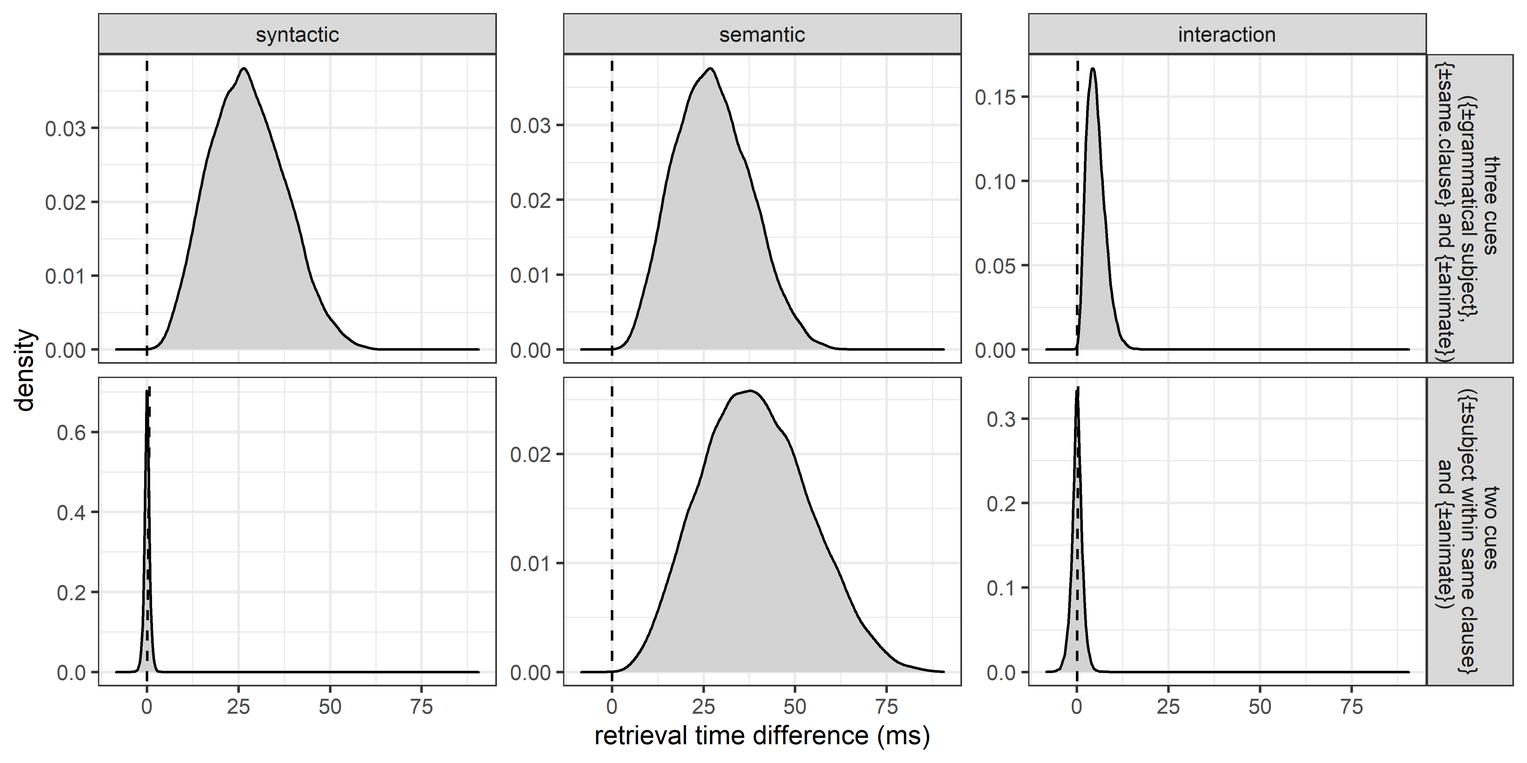
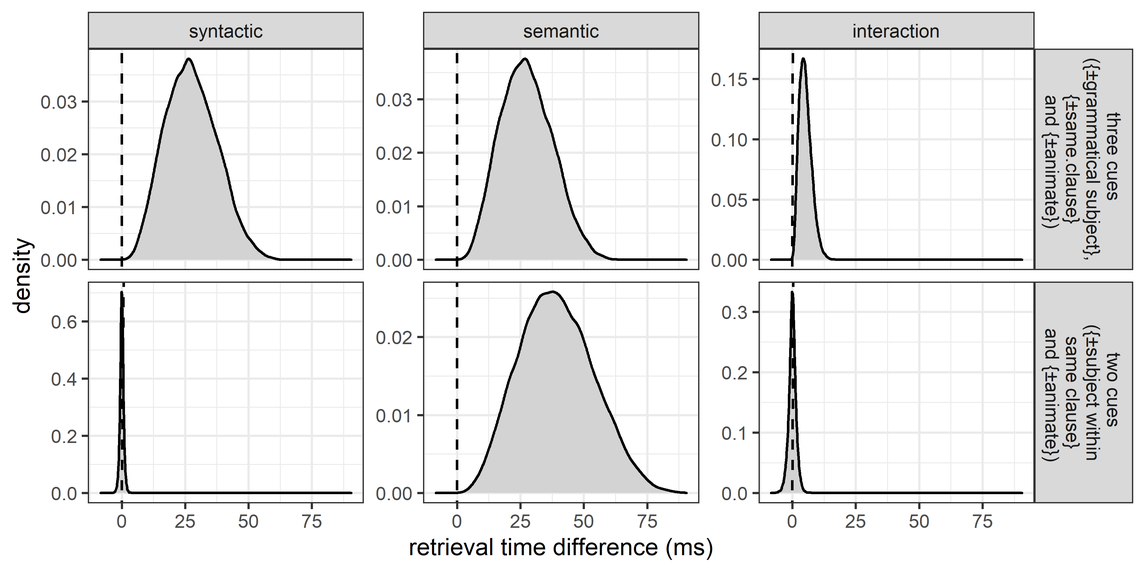
updated prior predictive modeling

diff --git a/paper/main.tex b/paper/main.tex
@@ -149,13 +149,13 @@ Semantic interference is manipulated via the animacy of the distractor. During t
 
 \paragraph{Regions of interest in the design}
 
-Although our principal focus was on the processing of the verb (\textit{trank}, `drank'), and the immediately following spill-over region, the pre-critical region was also of interest because previous work using the present design \parencite{vandyke07,mertzen} has consistently found effects in this region (we return to this point in the discussion sections). A further issue with German embedded clauses \parencite[also see][]{mertzen} was that, without an appropriate intervening phrase, the clause embedding would lead to two verbs appearing one after another (\textit{erzählt hatte, trank}, literally `told, drank'). This is because in German, the verb is clause-final in embedded clauses. Such verb sequences are inherently difficult to process \parencite{VSLK11,bach1986crossed}. 
+Our principal focus was on the processing of the verb (\textit{trank}, `drank'). The reading times of the immediately following spill-over region and of the pre-critical region were also of interest. Previous work using the present design \parencite{vandyke07,mertzen} has consistently found effects in the pre-critical region (we return to this point in the discussion sections). A further issue with German embedded clauses \parencite[also see][]{mertzen} was that, without an appropriate intervening phrase, the clause embedding would lead to two verbs appearing one after another (\textit{erzählt hatte, trank}, literally `told, drank'). This is because in German, the verb is clause-final in embedded clauses. Such verb sequences are inherently difficult to process \parencite{VSLK11,bach1986crossed}. 
 
 For these reasons, we added two adverbs before the critical verb. Including these intervening regions had a further advantage: 
 It is well-known \parencite[e.g., ][]{rayner2000effect} that the last word in a clause-final position causes a slowdown in reading; such a slowdown has the potential to spill over to the subsequent regions, possibly affecting the estimated effects at the critical region. The spill-over of longer reading times can be problematic because the standard deviation increases as well \parencite{wagenmakers2007linear}; such an increase in standard deviation would drastically lower statistical power. 
 Inserting two adverbs before the critical verb thus served to attenuate spill-over from the clause-final word in the embedded clause preceding the critical region. This way, the critical region should be less affected by the clause-boundary slowdown. This design also has the advantage that any potential effects seen at the pre-critical region (the adverb immediately preceding the verb) are less likely to be due to spill-over from the preceding region. 
 
-Thus, our focus in the present study is on the processing difficulty observed at the pre-critical, critical (verb), and post-critical regions.
+Thus, our focus in the present study is on the processing difficulty observed at the critical verb and the surrounding regions.
 
 
 \subsubsection{Plausibility norming}
@@ -446,7 +446,7 @@ At the pre-critical region, there was clear evidence for semantic interference. 
 Indeed, previous work using the same design as in the present paper has also found semantic interference effects at the pre-critical region: both \textcite{vandyke07} and \textcite{mertzen} found such effects. \citeauthor{mertzen}'s (\citeyear{mertzen}) Figures 5 and 6 indicated reading time differences in earlier regions, especially for their German data (see their Figure 6). \textcite{vandyke07} did not report reading times for the whole sentences / distractors;  \citeauthor{vandyke07} attributed the effects observed at the pre-critical region to plausibility differences between conditions, but as \textcite{mertzen} also points out, encoding interference could be an explanation even in that study. Given these earlier findings, our results are consistent with the encoding interference explanation.
 
 \textcite{mertzen} observed both syntactic and semantic interference effects in the pre-critical region. 
-They discuss several alternative explanations for their observed effects. In addition to encoding interference, \textcite{mertzen} propose three other alternative explanations for their data: parafoveal-on-foveal effects, sentence structure confounds across conditions, and predictive processing effects. Our results cannot be explained by the parafoveal-on-foveal explanation, because there is no parafoveal preview in self-paced reading. The observed difference between the high and low semantic interference conditions is independent of the syntactic manipulation. Therefore, the sentence structure confound is also not a good explanation for the effect in our study. Regarding the predictive-processing explanation, \citet{mertzen} argued that the pre-critical adverb must attach to the upcoming verbal phrase; this leads to an anticipatory creation of a verb phrase chunk in memory, which triggers a retrieval of the subject already at the pre-critical region. However, in our study, the effect started at the distractor and became smaller as the two pre-critical adverbs were read (see Figure \ref{fig:whole_sentence} A and B). The predictive-processing explanation would incorrectly predict that the effect begins at the first adverb, which is the first word of the verbal phrase. Consequently, the prediction explanation is also ruled out in our data, rendering encoding interference the most likely explanation of the effects found prior to the critical verb in our data. Crucially this line of reasoning should not be limited to the explanation of the pre-critical effects, but should be extended to the effects in the critical region as well. The reading times for high vs.\ low semantic interference conditions started to differ at the distractor and differed throughout the rest of the sentence. It is not possible to pinpoint whether the effect in the critical region is due to a retrieval initiated at this region, or still due to encoding and maintaining the distractor in memory \citep{ness2017}, or a combination of encoding and retrieval interference. Due to this unclear status of the effects at the critical verb, we refrain from interpreting the interaction which was observed in this region.
+They discuss several alternative explanations for their observed effects. In addition to encoding interference, \textcite{mertzen} propose three other alternative explanations for their data: parafoveal-on-foveal effects, sentence structure confounds across conditions, and predictive processing effects. Our results cannot be explained by the parafoveal-on-foveal explanation, because there is no parafoveal preview in self-paced reading. The observed difference between the high and low semantic interference conditions is independent of the syntactic manipulation. Therefore, the sentence structure confound is also not a good explanation for the effect in our study. Regarding the predictive-processing explanation, \citet{mertzen} argued that the pre-critical adverb must attach to the upcoming verbal phrase; this leads to an anticipatory creation of a verb phrase chunk in memory, which triggers a retrieval of the subject already at the pre-critical region. However, in our study, the effect started at the distractor and became smaller as the two pre-critical adverbs were read (see Figure \ref{fig:whole_sentence} A and B). The predictive-processing explanation would incorrectly predict that the effect begins at the first adverb, which is the first word of the verbal phrase. Consequently, the prediction explanation is also ruled out in our data, rendering encoding interference the most likely explanation of the effects found prior to the critical verb in our data. Crucially this line of reasoning should not be limited to the explanation of the pre-critical effects, but should be extended to the effects in the critical region as well. The reading times for high vs.\ low semantic interference conditions started to differ at the distractor and differed throughout the rest of the sentence. It is not possible to pinpoint whether the effect in the critical region is due to a retrieval initiated at this region, or still due to encoding and maintaining the distractor in memory \citep{ness2017}, or a combination of encoding and retrieval interference. Because of the unclear status of the effects at the critical verb, we refrain from interpreting the interaction which was only observed in this region.
 
 \subsubsection{Comparison with previous findings}
 The results of the present study stand in contrast to previous findings \citep{vandyke07, mertzen}. The present study is the only one to find semantic and no syntactic interference effect. The difference in observed effects could be explained by differences in statistical power or by methodological differences. The present study has higher statistical power than the previous studies. \citet{vandyke07} had 35 - 40 participants and 36 - 48 items in each of her three experiments, respectively. \textcite{mertzen} tested 61 English speakers and 121 German speakers with 40 items each. In contrast, we tested 774 participants with at least 60 items each (a subset of 160 participants read all 120 items). Therefore, the present study is the study with the highest power to date using this 2 $\times$ 2 interference design. Consequently, the estimates from the present study are the most precise ones so far for this design. The smaller effect size in the present study is a consequence of higher power, and the magnitude of the effects observed is comparable to that of other large-scale reading studies \citep{nicenboim} and meta-analyses on interference \citep{jaeger_etal_2017}.
@@ -493,7 +493,7 @@ The statistical analyses of the comprehension accuracy in the EEG experiment wer
 We used Bayesian linear mixed models to analyze the single trial EEG data in response to the critical verb. We averaged the activity of 12 centro-parietal electrodes (Cz, C3/4, CPz, CP1/2, CP5/6, Pz, P3/4, POz) in the standard N400 time window (300 to 500 ms post critical word onset) for all analyses. The models included sum-contrast coded fixed effects for syntactic interference (high +0.5, low -0.5), semantic interference (high +0.5, low -0.5) and their interaction. In addition to the fixed effects of interest, all models included the baseline EEG activity from 200 ms prior to critical word onset until critical word onset as a continuous predictor. This functioned as a regression-based instead of traditional baseline correction \citep{alday2019}. Varying intercepts for participants and items as well as by-participant random slopes for semantic interference were included. Correlations between varying intercepts and slopes were not included. We used relatively informative priors for all parameters of the models (see Table \ref{tab:eeg_priors}). 
 
 \begin{table}[]
-    \caption{Relatively informative priors for the analysis of the event-related potentials \citep{nicenboim_stats}. Priors on the slope parameters were truncated to an upper bound of zero, i.e., only negative values. This corresponds to more negative brain responses to high vs.\ low interference conditions in line with the literature. The standard deviations of the slope priors were varied in order to conduct a Bayes factor sensitivity analysis. See the corresponding assumed a priori range of the difference between high vs.\ low interference.}
+    \caption{Relatively informative priors for the analysis of the event-related potentials \citep{nicenboim_stats}. Priors on the slope parameters were truncated to an upper bound of zero, i.e., only negative values. This corresponds to more negative brain responses to high vs.\ low interference conditions in line with the literature \citep{lee_garnsey, martinetal2014, schoknecht2022, vasishth_drenhaus_2011}. The standard deviations of the slope priors were varied in order to conduct a Bayes factor sensitivity analysis. See the corresponding assumed a priori range of the difference between high vs.\ low interference.}
     \label{tab:eeg_priors}
     \centering
     \begin{tabular}{lllr}
@@ -535,7 +535,7 @@ After exclusion of participants with accuracy below 70\,\%, the overall accuracy
     \end{tabular}
 \end{table}
 
-Table \ref{tab:eeg_acc_mod} presents the results of the generalized mixed model analyzing the comprehension accuracy in the critical trials. The log-odds estimates and 95\,\% credible intervals show reduced comprehension accuracy in high compared to low semantic interference conditions. Additionally, the results suggest an interaction, i.e., the difference between high and low semantic interference conditions was larger when syntactic interference was high vs.\ when it was low.
+Table \ref{tab:eeg_acc_mod} presents the results of the generalized mixed model analyzing the comprehension accuracy in the critical trials. The log-odds estimates and 95\,\% credible intervals show reduced comprehension accuracy in high compared to low semantic interference conditions. Additionally, the results suggest an interaction, i.e., the difference between high and low semantic interference conditions was larger when syntactic interference was high vs.\ when it was low. Because the accuracies are not of primary interest, we did not carry out Bayes factors analyses for these.
 
 \begin{table}[]
     \caption{Results in log-odds from a Bayesian generalized model analyzing the comprehension accuracy in critical trials of the EEG experiment.}
@@ -558,7 +558,7 @@ interaction& -0.17&  [-0.34, -0.01]\\
 \paragraph{Estimated effect sizes and their uncertainty}
 
 Figure \ref{fig:erp_all} shows the 
-grand average ERPs elicited by the critical verb for all conditions. Table \ref{tab:eeg_mod} shows the estimates from the linear mixed model with the truncated prior Normal$_-$(0, 0.5) which assumed more negative ERPs for high vs.\ low interference, with a difference possibly as large as -1\,$\mu V$. The 95\% credible intervals for the fixed effects are consistent with effects of syntactic interference, semantic interference and their interaction. The estimate of the semantic interference effect was the largest and its 95\% credible interval was the furthest from zero (mean: -0.31\,$\mu V$, 95\% CrI = [-0.49, -0.13]\,$\mu V$, for the posteriors see Figure \ref{fig:eeg_posteriors}). The estimate of syntactic interference and the interaction were both about half the size of the semantic effect (see Table \ref{tab:eeg_mod} and Figure \ref{fig:eeg_posteriors}).
+grand average ERPs elicited by the critical verb for all conditions. Table \ref{tab:eeg_mod} shows the estimates for the brain activity in the spatio-temporal N400 window from the linear mixed model with the truncated prior Normal$_-$(0, 0.5) which assumed more negative ERPs for high vs.\ low interference, with a difference possibly as large as -1\,$\mu V$. The 95\% credible intervals for the fixed effects are consistent with effects of syntactic interference, semantic interference and their interaction. The estimate of the semantic interference effect was the largest and its 95\% credible interval was the furthest from zero (mean: -0.31\,$\mu V$, 95\% CrI = [-0.49, -0.13]\,$\mu V$, for the posteriors see Figure \ref{fig:eeg_posteriors}). The estimate of syntactic interference and the interaction were both about half the size of the semantic effect (see Table \ref{tab:eeg_mod} and Figure \ref{fig:eeg_posteriors}).
 
 \begin{figure}[H]
     \caption{ERPs elicited by the critical verb (word onset at 0\,ms) at electrode Cz.}
@@ -644,23 +644,22 @@ Normal$_{-}$(0, 5): BF$_{10}$ = 0.14).  What this means is that, in our data, on
 
 Across all priors, the Bayes factors provided evidence \textit{against} the interaction of semantic and syntactic interference (BF$_{10}$ < 0.85).
 
-
-\begin{figure}
+\begin{figure}[H]
     \caption{Bayes factors for the effects of semantic interference, syntactic interference and their interaction in the time window 300 to 500 ms post critical verb onset at centro-parietal electrode sites.}
     \label{fig:eeg_bfs}
     \centering
-    \includegraphics[width=0.9\textwidth]{images/BF_plot_N103_cp_300_500.jpg}
+    \includegraphics[width=0.8\textwidth]{paper/images/BF_plot_N103_cp_300_500.jpg}
 \end{figure}
 
 \subsection{Discussion}
-We presented a relatively large-scale ERP experiment investigating syntactic and semantic interference during subject-verb dependency completion. To our knowledge, this is the first ERP experiment on this classic interference design, which has only been investigated using reading studies so far \parencite{mertzen,vandyke07}. 
+We presented a large-scale ERP experiment investigating syntactic and semantic interference during subject-verb dependency completion. To our knowledge, this is the first ERP experiment on this classic interference design, which has only been investigated using reading studies so far \parencite{mertzen,vandyke07}. 
 
 Comprehension accuracy was reduced for high vs.\ low semantic interference conditions. 
 Syntactic interference itself did not affect accuracy. There was a numerical suggestion of an interaction: the difference in accuracy between low and high semantic interference conditions was larger when syntactic interference was high vs.\ when it was low (17 vs.\ 8 \% difference). 
 
 The Bayes factors analyses found strong evidence for semantic interference in the N400 amplitude. Syntactic interference had much weaker evidence in the N400 amplitude; only anecdotal evidence was found under narrow priors, and there was clear evidence against syntactic interference under wider priors. The evidence against an interaction under all priors was unequivocal.
 
-Our finding that retrieval interference modulates the N400 amplitude supports the N400 as a marker of memory retrieval \citep{kutas&federmeier_2000, kutas_federmeier2011, brouwer2017_n4_p6, lau2008_n400}.
+Our finding that retrieval interference modulates the N400 amplitude supports the N400 as a marker of memory retrieval \citep{kutas&federmeier_2000, kutas_federmeier2011, brouwer2017_n4_p6, lau2008_n400}. The more complex memory retrieval under high semantic interference resulted in a more negative N400.
 
 Consistent with the self-paced reading study, there is clear evidence for semantic interference, and evidence against syntactic interference.  How do these observed patterns compare to the theoretical predictions of cue-based retrieval theory? We turn to this point next by discussing the quantiative predictions of the \textcite{Lewis2005} model.
 
@@ -669,14 +668,36 @@ Consistent with the self-paced reading study, there is clear evidence for semant
 \section{Quantitative predictions of the Lewis and Vasishth (2005) model for the present design}
 
 \textcite{mertzen} presented simulations that show approximately equally sized interference effects 
-for both the syntactic and semantic manipulations. Their model assumed that three cues were used at the verb:  \{$\pm$ grammatical subject\}, \{$\pm$ same clause\} and \{$\pm$ animacy\}. The upper part of Figure \ref{fig:model_predictions} reproduces the \textcite{mertzen}   simulations. These are prior predictive distributions of the effects of interest, by sampling from a prior distribution ($Beta(a=4,b=6)$) for the free scaling parameter F and then generating data from the model while holding all other parameters in the model at fixed values. The F parameter scales the activation to a retrieval time. The prior $Beta(a=4,b=6)$ was chosen in earlier work \parencite{jaeger_etal_2020}. 
+for both the syntactic and semantic manipulations. Their model assumed that three cues were used at the verb: \{$\pm$ grammatical subject\}, \{$\pm$ same clause\} and \{$\pm$ animacy\}. The upper parts of Figure \ref{fig:model_predictions} a and b reproduce the \textcite{mertzen} simulations. \ref{fig:model_predictions_rts} shows the prior predictive distributions of by-condition retrieval times that were generated by sampling from a prior distribution ($Beta(a=4,b=6)$) for the free scaling parameter F and then generating data from the model while holding all other parameters in the model at fixed values. The F parameter scales the activation to a retrieval time. The prior $Beta(a=4,b=6)$ was chosen in earlier work \parencite{jaeger_etal_2020}. Figure \ref{fig:model_predictions_effects} shows the effects of interest computed based on the condition means shown in \ref{fig:model_predictions_rts}.
 
-Although the semantic interference effect estimates from the SPR study fall within the predicted range from the model, the syntactic interference effect is quite divergent: as discussed earlier, the SPR data show evidence against syntactic interference, but the model predicts a syntactic interference effect of approximately the same magnitude as semantic interference. Given that the EEG data also speak against syntactic interference, it is plausible that, at least in this experimental design and language, syntactic interference plays no role. 
+\begin{figure}[htbp]
+    \centering
+    \caption{Prior predictions from the \textcite{Lewis2005} model as implemented in R by \textcite{engelmann_etal_2019}. 
+    The implemented models are available with the code and data provided with this paper.}
+    \label{fig:model_predictions}
+    \centering
+         \begin{subfigure}[t]{\textwidth}
+         \centering
+        \caption{Prior predicted by-condition retrieval time means. The upper panel shows the predictions using the three retrieval cues used in \textcite{mertzen}, and the lower panel shows the predictions using the two cues \{$\pm$ subject-in-same-clause\} and \{$\pm$ animate\}. Diamonds represent the means (numbers to the right) and blue dots show each simulated data point.}
+         \label{fig:model_predictions_rts}
+         \includegraphics[width=\textwidth]{paper/images/PriorPredictedMeans_interACTversions.png}
+     \end{subfigure}
+
+     \begin{subfigure}[t]{\textwidth}
+         \centering
+        \caption{Prior predicted effect sizes, i.e., retrieval time differences, for syntactic and semantic interference and their interaction. The upper panels show the predictions using the three retrieval cues used in \textcite{mertzen}, and the lower panels show the predictions using the two cues \{$\pm$ subject-in-same-clause\} and \{$\pm$ animate\}.}
+         \label{fig:model_predictions_effects}
+         \includegraphics[width=\textwidth]{paper/images/PriorPredicted_interACTversions.png}
+     \end{subfigure}
+\end{figure}
+
+
+Although the semantic interference effect estimates from the SPR study fall within the predicted range from the model, the syntactic interference effect is quite divergent: as discussed earlier, the SPR data show evidence against syntactic interference, but the model predicts a syntactic interference effect of approximately the same magnitude as semantic interference. Given the evidence against syntactic interference in the SPR data and the flip between evidence for and evidence against it depending on the priors in the ERP data, it is plausible that, at least in this experimental design and language, syntactic interference plays little to no role. 
 
 The absence of (and evidence against) syntactic interference is surprising because the psycholinguistic literature has clearly established that syntactic constraints play a role in sentence processing. For example, \textcite{dillon2013} and \textcite{Sturt2003} argued that principle A of the binding theory controls the retrieval process in the antecedent-reflexive dependency, effectively eliminating or attenuating interference from other overlapping features (such as number marking) of intervening nouns that cannot be an antecedent for the reflexive. For further evidence for this idea from individual differences, see \textcite{yadav2021individual}. Even more relevant to the present study is the fact that \textcite{mertzen} did find syntactic interference effects. 
 
 Could the absence of syntactic interference be reconciled with a cue-based retrieval account? We speculated that one possibility might be that the parser tracks hierarchical structure and that this hierarchical information is used when searching for a noun in memory. Specifically, the relevant syntactic cues that might be used at the verb are not  \{$\pm$ grammatical subject\} and \{$\pm$ same clause\} but rather a composite cue \{$\pm$ subject-in-same-clause\}. In other words, in the spirit of the  \textcite{dillon2013} and \textcite{Sturt2003} proposal, that the parser intelligently targets only the syntactically relevant noun during antecedent retrieval, we evaluated the predictions of the model assuming that the cues are \{$\pm$ subject-in-same-clause\} and \{$\pm$ animate\}. The results of the prior predictive simulations are shown in 
-the lower part of Figure \ref{fig:model_predictions}. This model now shows the observed pattern: a semantic interference effect but no syntactic interference. One limitation here is that the prior predictive distribution of our post-hoc  model still overestimates the semantic interference effect (95\,\% CrI [10, 67]\,ms; the largest effect observed the SPR study was [4, 12] ms at the critical region). This overestimation has to do with the fact that the prior on the F parameter is relatively spread out; it would be  possible to fit the parameter to the SPR data.
+the lower parts of Figure \ref{fig:model_predictions} a and b. This model now shows the observed pattern: a semantic interference effect but no syntactic interference. One limitation here is that the prior predictive distribution of our post-hoc  model still overestimates the semantic interference effect (95\,\% CrI [10, 67]\,ms; the largest effect observed the SPR study was [4, 12] ms at the critical region). This overestimation has to do with the fact that the prior on the F parameter is relatively spread out; it would be  possible to fit the parameter to the SPR data. 
 
 The \citet{Lewis2005} model is generally used to predict reading times. The scaling factor \textit{F}  links the activation of items in memory to retrieval times \citep{Lewis2005}. But this scaling factor could be adjusted to link activation to brain responses to use the model to generate predictions on the microvolt scale for ERP data. The general effect pattern (no syntactic interference effect, but a semantic interference effect) would not be affected by an adjustment of the scaling factor. Therefore, the \{$\pm$ subject-in-same-clause\} cue instead of the \{$\pm$ grammatical subject\} cue explanation can account for the estimates of the present ERP study as well.
 
@@ -686,15 +707,6 @@ Thus, one theoretical assumption that would be consistent with the observed SPR 
 %There is another point to make regarding the small size of the effects observed in the present study: The observed semantic effect in self-paced reading times (8 ms, 95\,\% CrI [4, 12]) only slightly overlaps with the quantitative predictions from the \citet{Lewis2005} model of cue-based retrieval for the \citet{vandyke07} design (95\,\% CrI [9, 49]\,ms, implementation of the model by \textcite{engelmann_etal_2019}, adapted to the current design with the retrieval cues \{± animate\} and \{± grammatical subject\}). The \citet{Lewis2005} model does not only overestimate the effect size of semantic interference, but it also predicts equally sized semantic and syntactic interference effects (see Figure \ref{fig:model_predictions}). The syntactic effect is absent in our data.
 
 %It would be implausible to argue that the absence of the syntactic interference effect suggests that the comprehender does not use syntactic information for subject-verb dependency resolution at all. We rather suggest that the \{± grammatical subject\} cue was not the right syntactic cue to investigate. In line with \citet{mertzen}, we suggest that a syntactic or structural cue along the lines of \{± same clause\} might be used during comprehension. Figure \ref{fig:model_predictions} presents the predictions of the \citet{Lewis2005} model for the \citet{vandyke07} design where additionally to the \{± animate\} cue either the canonical cue \{± grammatical subject\} or the alternative cue \{± same clause\} was implemented. The \{± same clause\} cue model does predict the syntactic interference effect to be centered around zero (95\,\% CrI [-4, 3]\,ms). This prediction is consistent with the results of the present study. However, the \{± same clause\} model still overestimates the semantic interference effect (95\,\% CrI [10, 67]\,ms).
-
-\begin{figure}[H]
-    \centering
-    \caption{Prior predicted reading times for syntactic and semantic interference and their interaction from the \textcite{Lewis2005} model as implemented in R by \textcite{engelmann_etal_2019}. The upper panel shows the predictions using the three retrieval cues used in \textcite{mertzen}, and the lower panel shows the predictions using the two cues \{$\pm$ subject-in-same-clause\} and \{$\pm$ animate\}. 
-    The implemented model is available with the code and data provided with this paper.}
-    \label{fig:model_predictions}\includegraphics[width=\textwidth]{images/PriorPredicted_interACTversions_2vs3.png}
-\end{figure}
-
-
 
 \section{General discussion}
 
